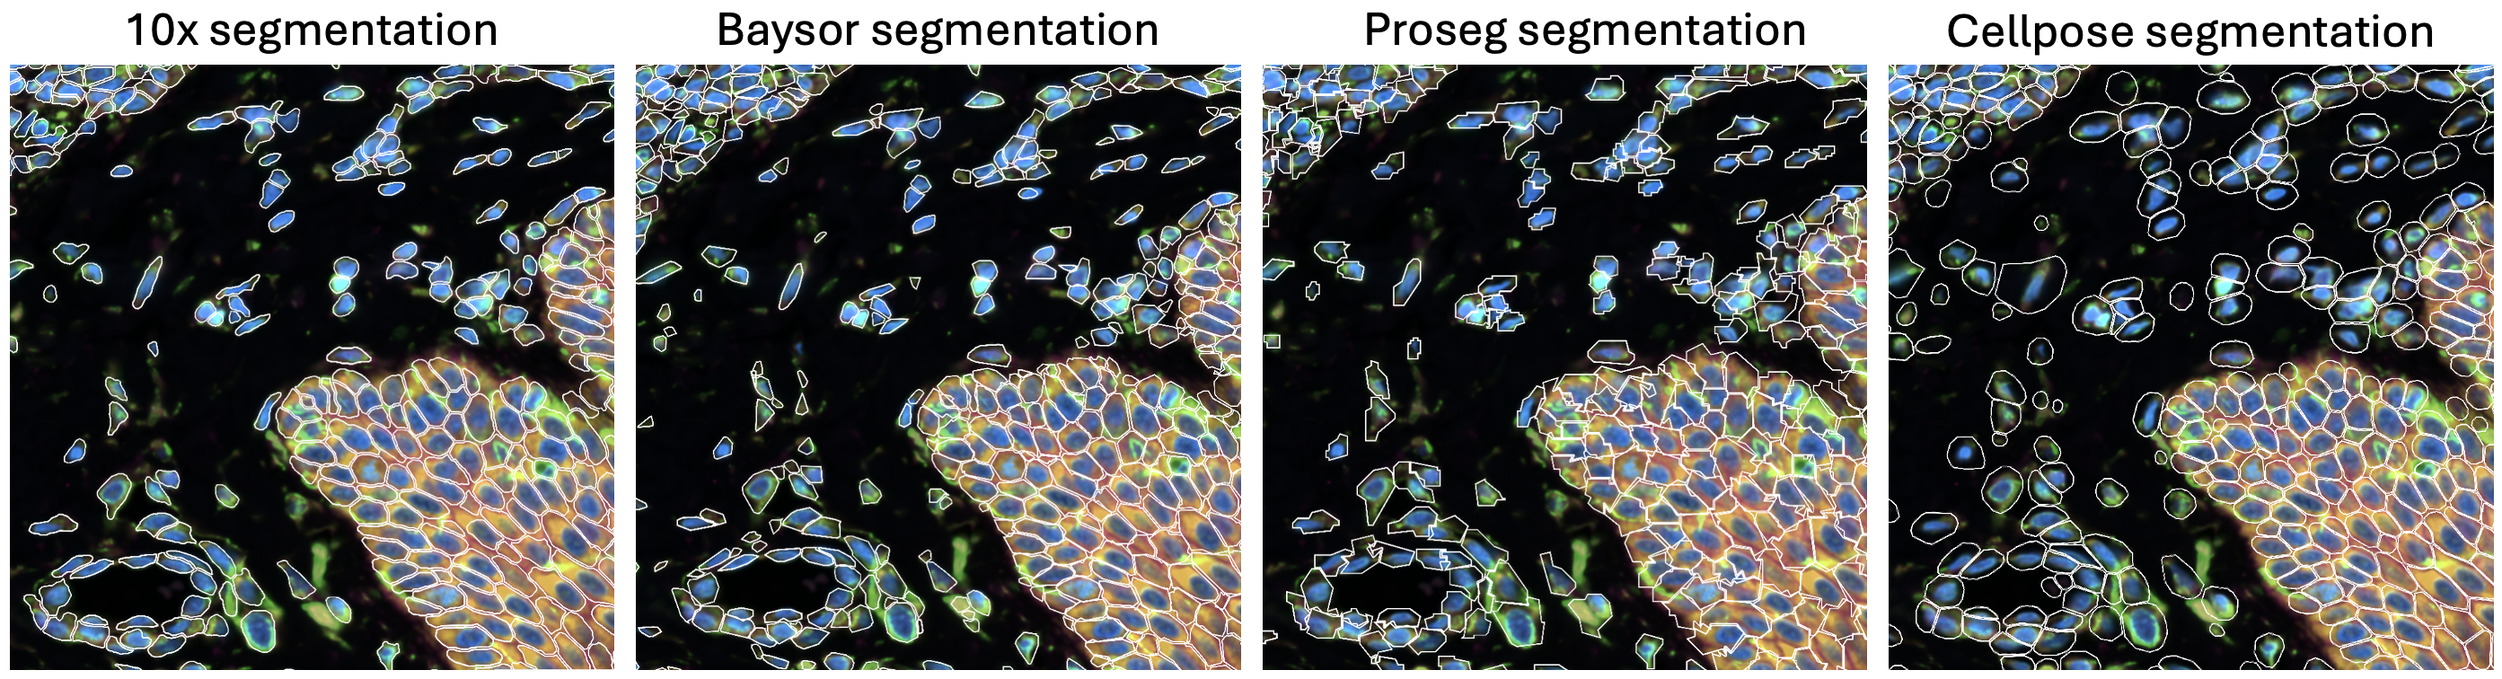
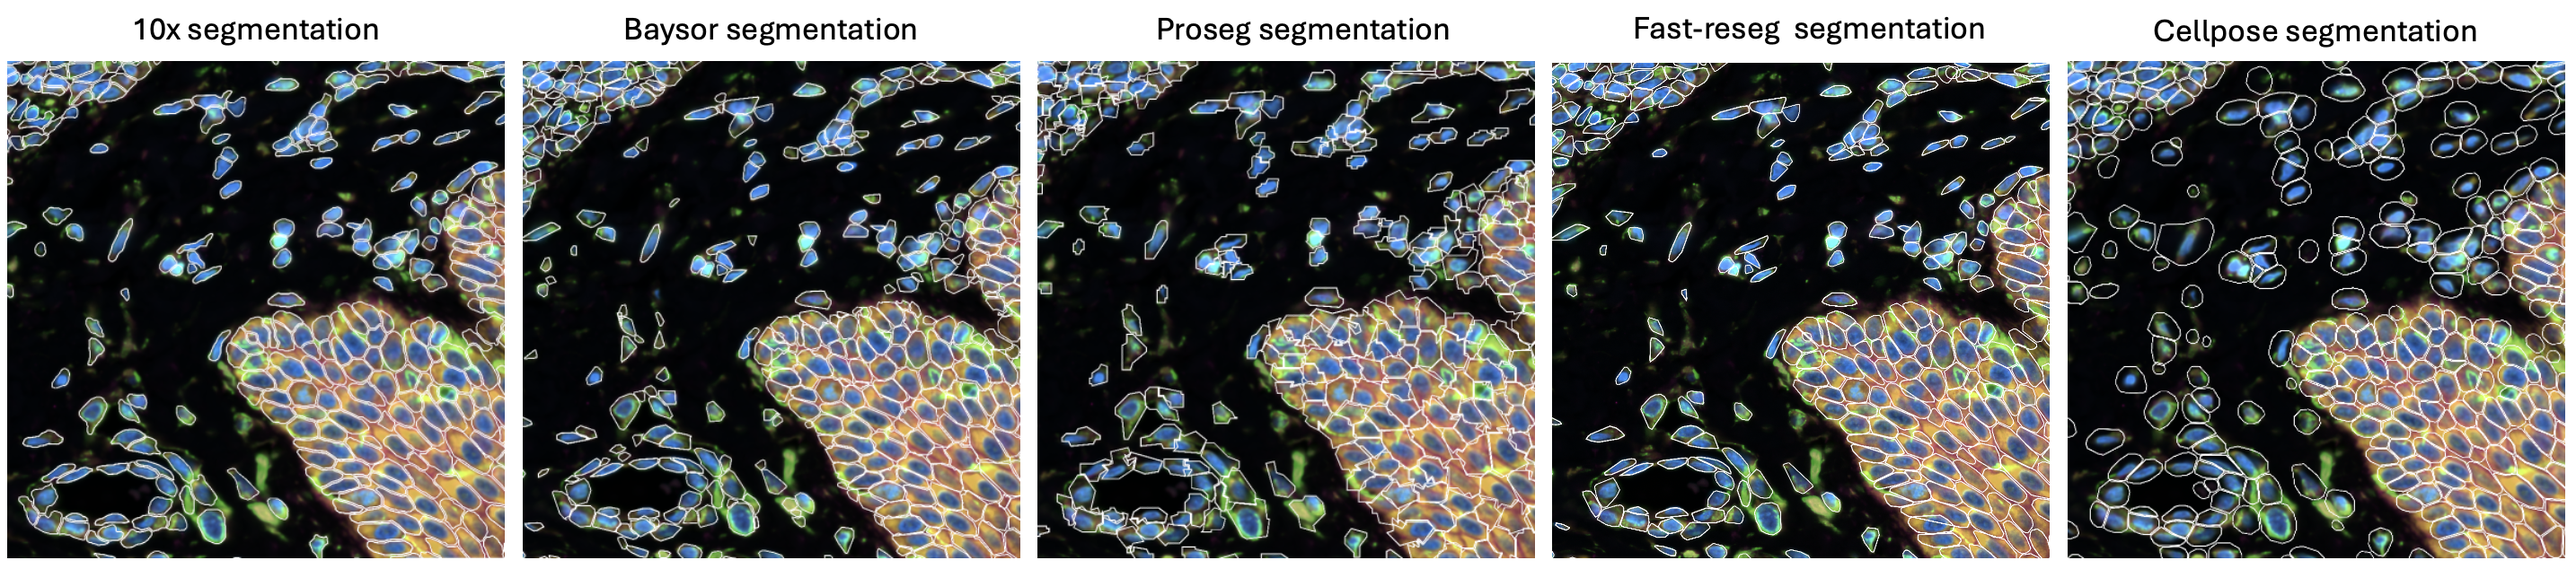
update readme and base method for a working version of fastreseg. Also fixing some things in the QC report but we have 4/5 methods working, classifier, and most of the QC report being exported

diff --git a/scripts/python/run_fastreseg.py b/scripts/python/run_fastreseg.py
@@ -239,7 +239,7 @@ def build_output(output_dir: Path, sample_id: str):
             ids.append(cell_id)
 
         gdf = gpd.GeoDataFrame({"cell_id": ids, "geometry": geoms},
-                               crs=None)
+                               crs=None).set_index("cell_id")
         gdf.to_parquet(boundary_path)
         print(f"[INFO] Boundaries saved: {len(gdf)} cells → {boundary_path.name}")
     else:

diff --git a/README.md b/README.md
@@ -26,6 +26,8 @@ The pipeline wraps multiple segmentation methods behind a single interactive wiz
 - **ProSeg** — probabilistic segmentation, full Explorer export
 - **Baysor** — Bayesian transcript-based segmentation, dask-parallelized
 - **Xenium baseline** — native Xenium segmentation loaded as reference
+- **Fastreseg** - R based program that uses a reference dataset to match cell types
+- **Cellpose** - neural net model to fit segmentation boundaries by expansion of nuclear mask
 - **QC report** — automated 4-page PDF comparing all methods, emailed on completion
   - Basic metrics: cell count, genes/cell, counts/cell, % transcripts captured
   - Morphological metrics: cell area, elongation, circularity, compactness, eccentricity, solidity, convexity, density, nuclear ratio
@@ -44,8 +46,9 @@ The pipeline wraps multiple segmentation methods behind a single interactive wiz
 | **ProSeg** | Probabilistic (Rust, via SOPA) | ✓ Working |
 | **Baysor** | Bayesian transcript-based (Julia, via SOPA) | ✓ Working |
 | **Cellpose** | Neural network (Python, via SOPA) | ✓ Working |
+| **FastReseg** | Post-hoc refinement (R) | ✓ Working |
 | **BIDCell** | Deep learning (PyTorch) | In progress |
-| **FastReseg** | Post-hoc refinement (R) | In progress |
+
 
 ## Quick Start
 
